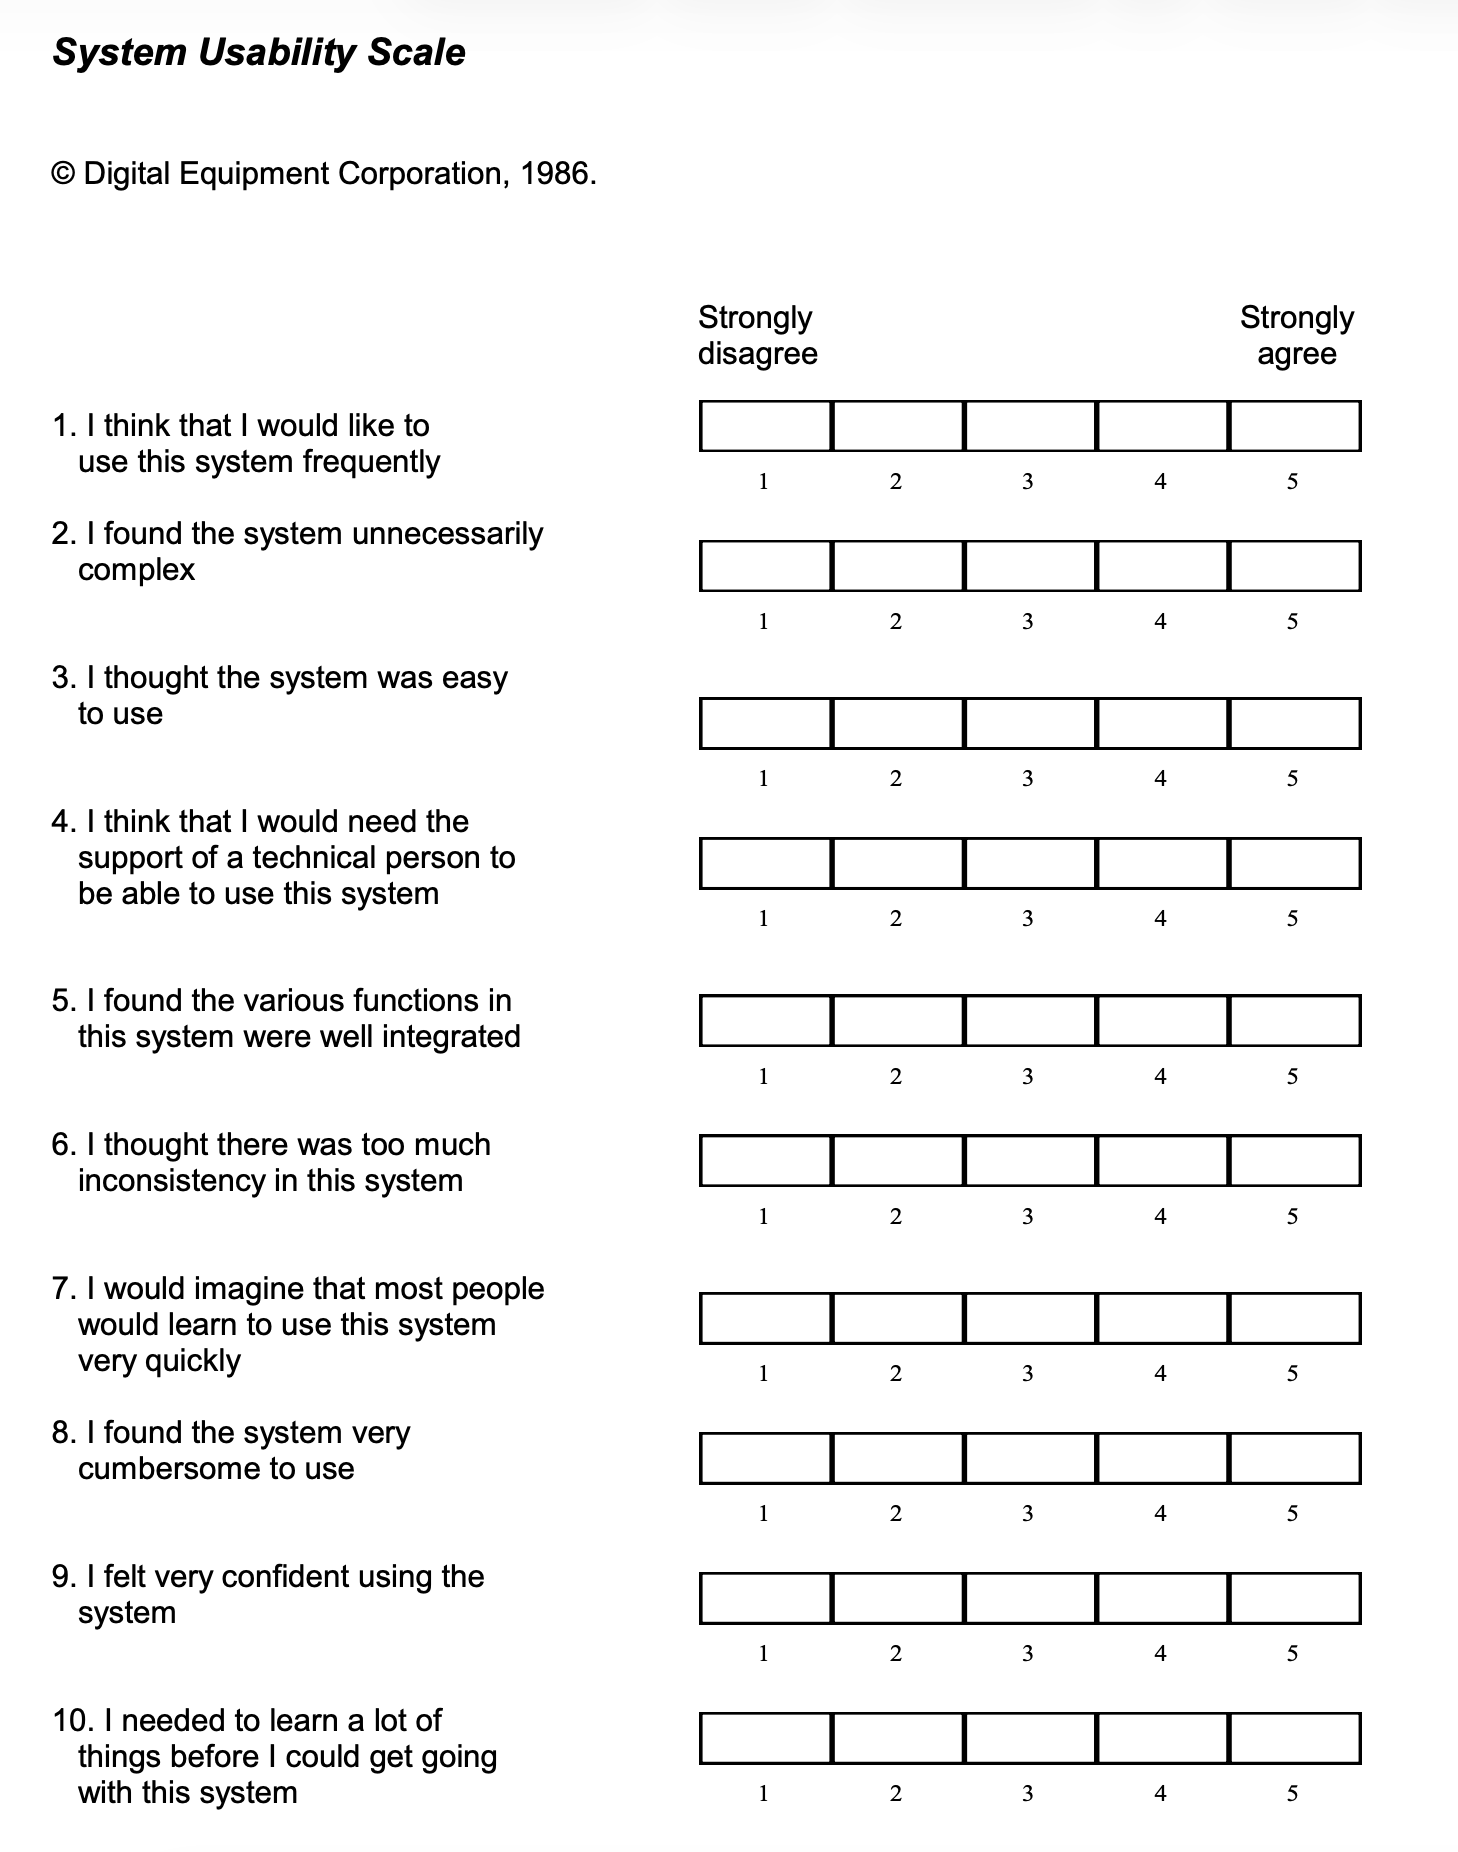
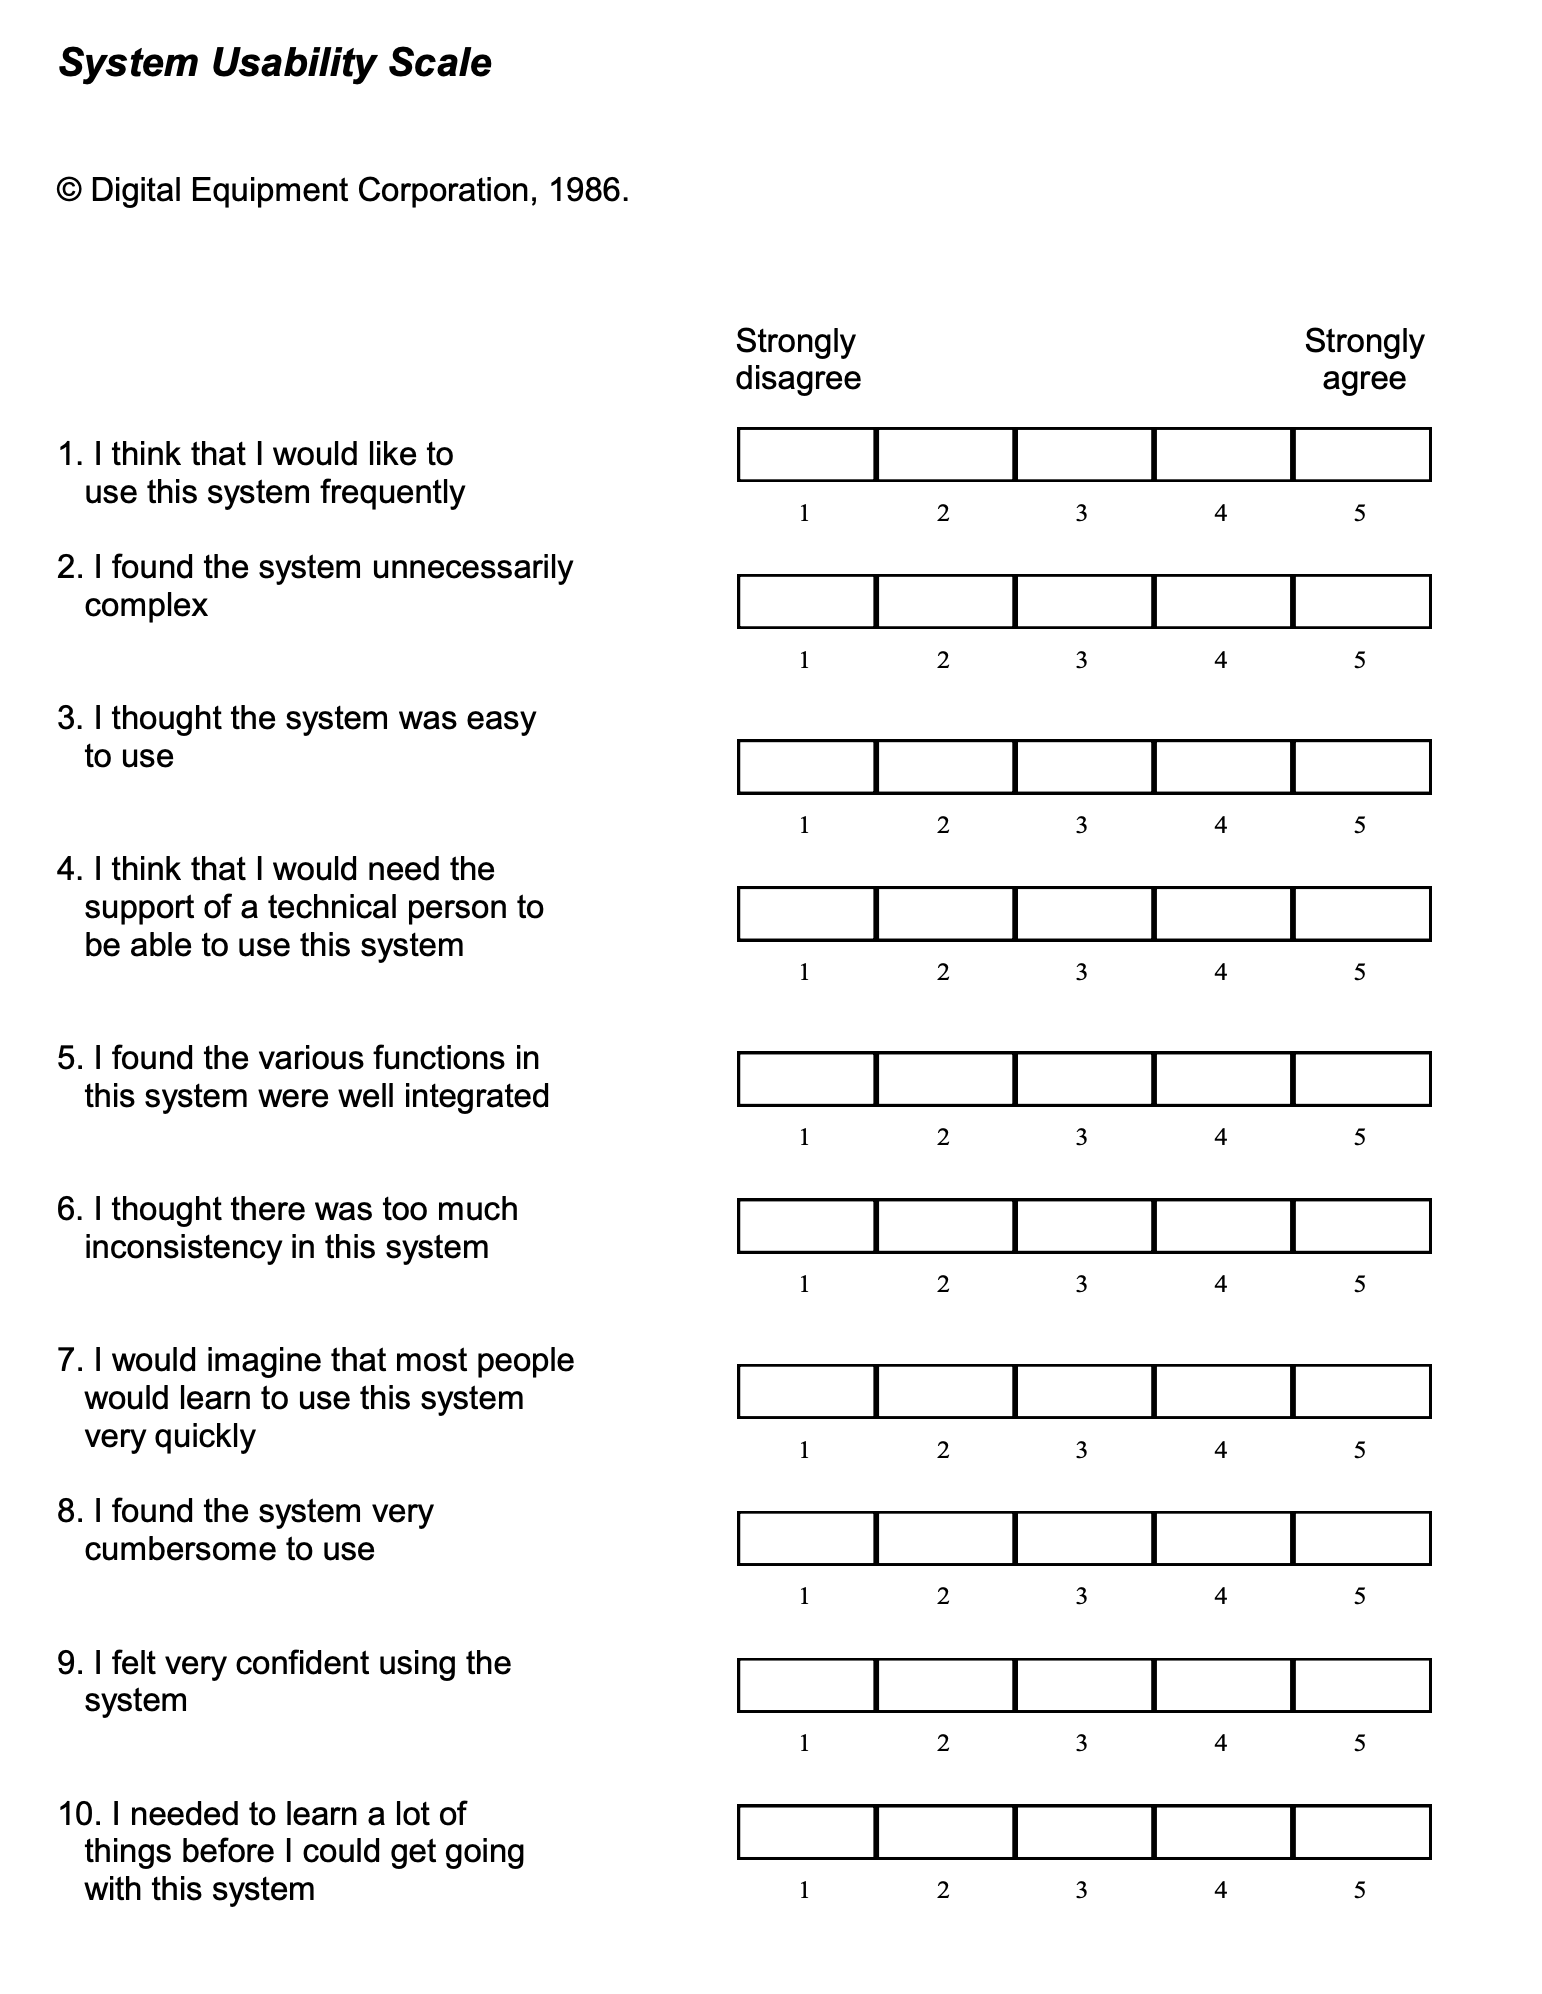
update sus instrument PNG and sizing of VdL instrument PNG

diff --git a/src/appenC.tex b/src/appenC.tex
@@ -171,7 +171,7 @@ The Van der Laan Acceptance Scale (Figure~\ref{fig:vdl-instrument}) is a 9-item 
 
 \begin{figure}[htbp]
     \centering
-    \includegraphics[width=5in]{figures/vdl-instrument.png}
+    \includegraphics[width=\marginfigurewidth]{figures/vdl-instrument.png}
     \caption[Van der Laan acceptance scale instrument.]{Van der Laan Acceptance Scale instrument (English version) as administered in the in-session Qualtrics survey.}
     \label{fig:vdl-instrument}
 \end{figure}
